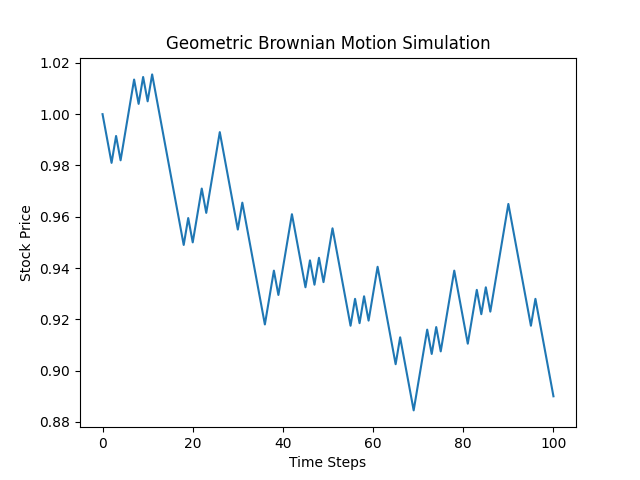
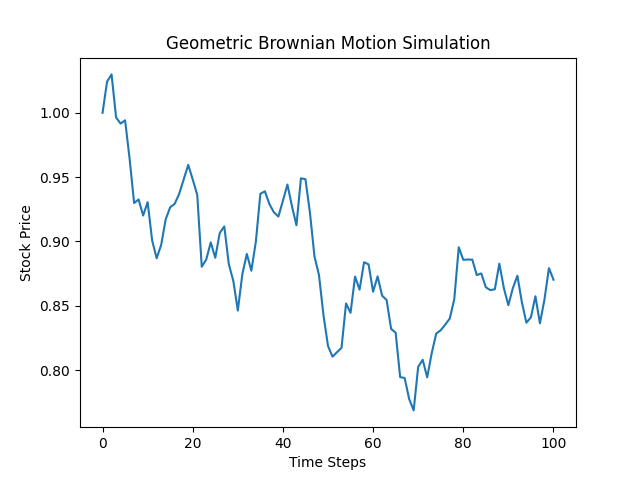
minor tweaks

diff --git a/pygbm/GBM/GBM.py b/pygbm/GBM/GBM.py
@@ -1,5 +1,5 @@
 import numpy as np
-from base import pygbm  
+from pygbm.base import pygbm  
 
 import matplotlib as plt
 
@@ -35,14 +35,15 @@ class GBMSimulator(pygbm):
         """
         prices = [self.start_price]
         times = [0]
-        drift = self.mu * T / N
+        dt = T / N
+        drift = (self.mu - 0.5 * self.sigma **2) * dt
         print(f'time: {times[-1]}, price: {prices[-1]}')
         
         for i in range(N):
             # Calculate the random jump component
-            jump = 0.5 * self.sigma * np.random.choice([1, -1]) * np.sqrt(T / N)
+            jump =  self.sigma * np.random.normal(0, np.sqrt(dt))
             times.append(i + 1)
-            prices.append(prices[-1] + drift - jump)
+            prices.append(prices[-1] * np.exp((drift + jump)))
             print(f'time: {times[-1]}, price: {prices[-1]}')
         
         return times, prices    

diff --git a/pygbm/cli.py b/pygbm/cli.py
@@ -2,13 +2,13 @@
 # Import the click library for creating command-line interfaces
 import click
 import matplotlib.pyplot as plt
-from GBM import GBMSimulator
+from pygbm.GBM.GBM import GBMSimulator
 
 
 # Define a command-line group using the click librarycl
 @click.group()
 def cli():
-     """
+    """
     Command-line interface group for the GBM simulator.
     """
     pass

diff --git a/pygbm/GBM/launch_script.py b/pygbm/GBM/launch_script.py
@@ -4,7 +4,7 @@ sys.path.append(os.path.dirname(os.path.dirname(os.path.abspath(__file__))))
 
 from GBM import GBMSimulator
 import matplotlib.pyplot as plt
-#matplotlib.use('TkAgg')
+
 
 # Parameters for GBM
 y0 = 1.0
